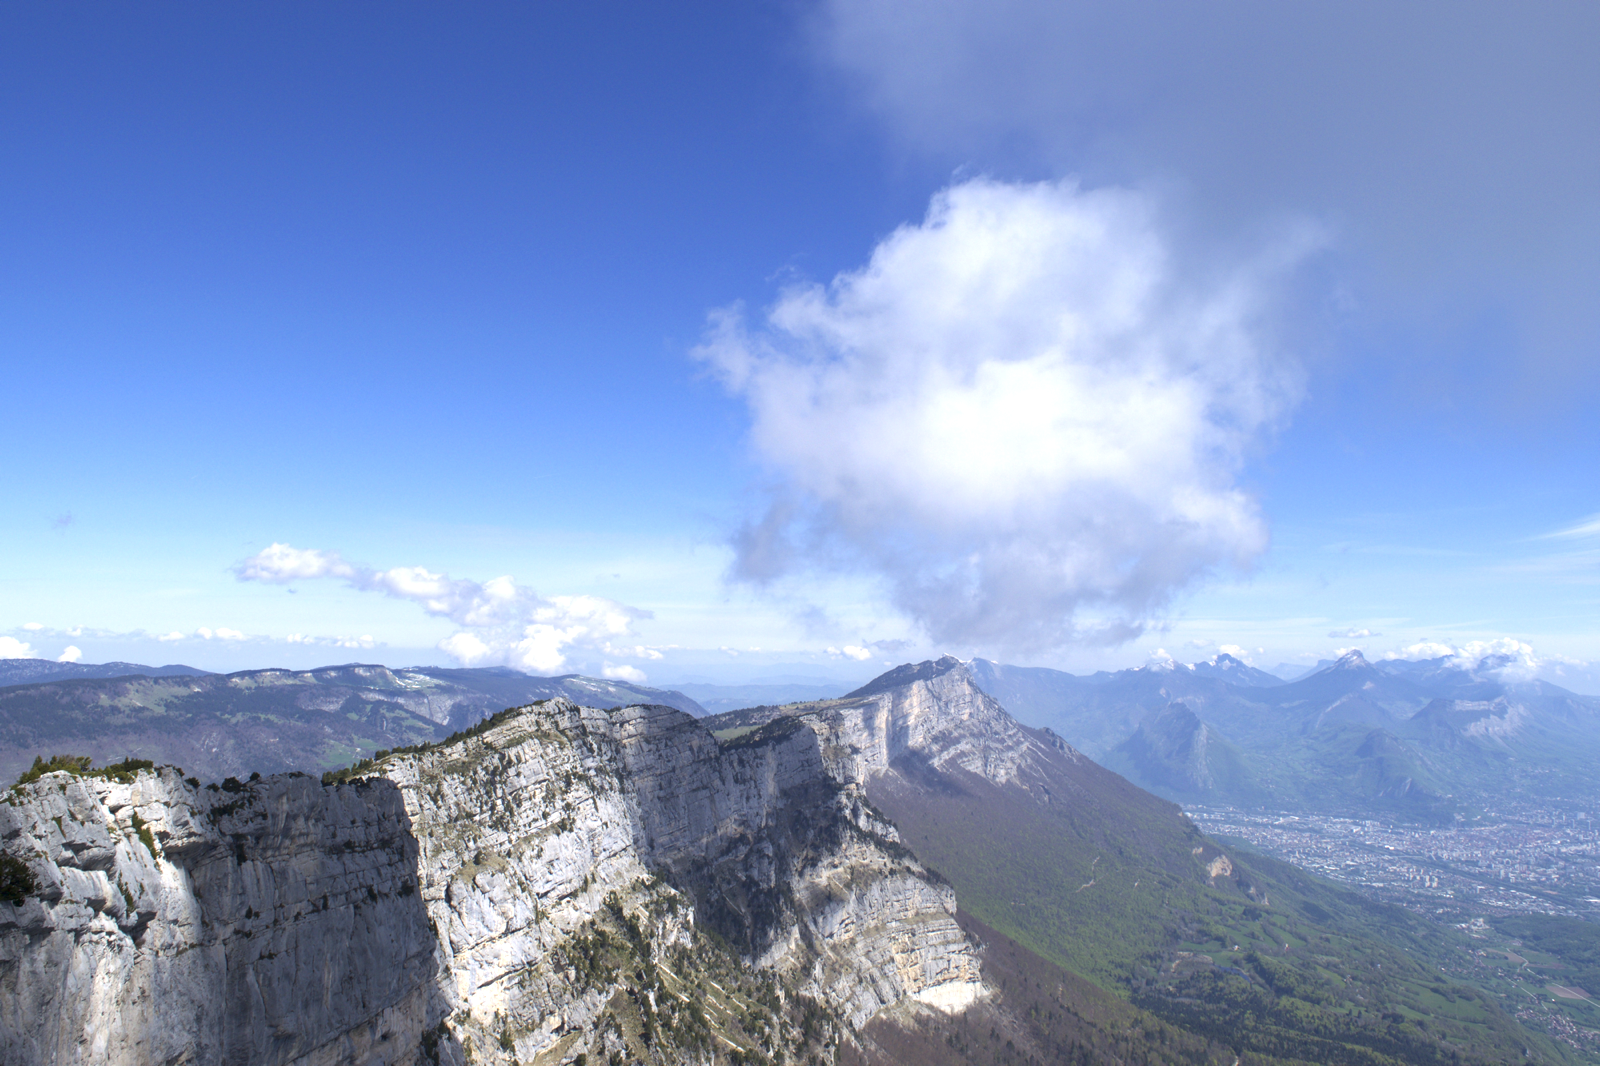
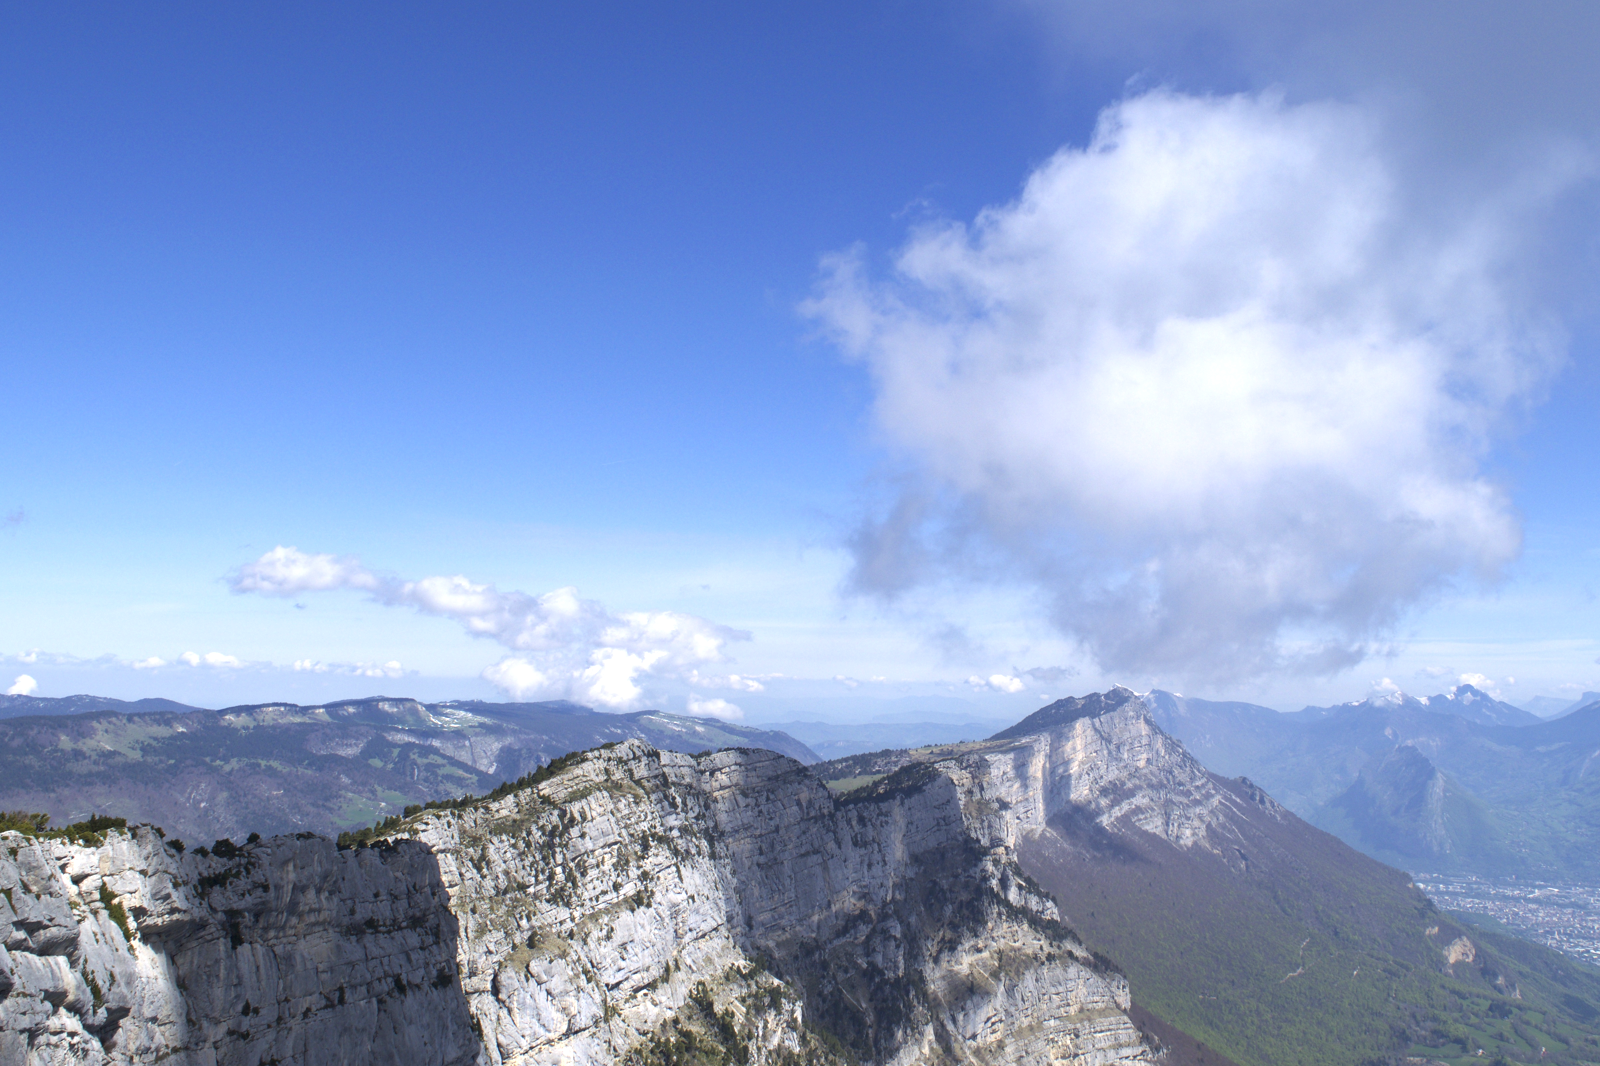
changement de l'image principale pour une meilleure lisibilité

diff --git a/css/styles.css b/css/styles.css
@@ -317,7 +317,7 @@ nav {
   color: #222222;
 }
 .cover-block .center {
-  margin: 0 20%;
+  margin: 0 9%;
 }
 .cover-block .thumb {
   display: table-cell;
